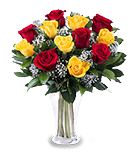
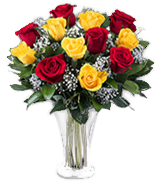
update products images layout

diff --git a/index.html b/index.html
@@ -350,8 +350,8 @@
                 <div id="grid-3" class="grid-wraper-3">
 
                     <div class="card card-2 rounded border">
-                        <div class="card2-img-cont bg-light-c">
-                            <img class="card-img-top" src="images/products/p1.png" height="200" width="50" alt="Card image cap">
+                        <div class="card2-img-cont bg-light-c d-flex">
+                            <img class="mx-auto mt-4" src="images/products/p1.png" alt="Card image cap">
                         </div>
                         <div class="card-body">
                             <button id="product1" class=" far fa-heart .full-heat heart-btn text-red border-0"></button>
@@ -374,8 +374,8 @@
                     </div>
 
                     <div class="card card-2 rounded border">
-                        <div class="card2-img-cont bg-light-c">
-                            <img class="card-img-top" src="images/products/p2.png" height="200" width="50" alt="Card image cap">
+                        <div class="card2-img-cont bg-light-c d-flex">
+                            <img class="mx-auto mt-4" src="images/products/p2.png"  alt="Card image cap">
                         </div>
                         <div class="card-body">
                             <button id="product2" class=" far fa-heart .full-heat heart-btn text-red border-0"></button>
@@ -398,8 +398,8 @@
                     </div>
 
                     <div class="card card-2 rounded border">
-                        <div class="card2-img-cont bg-light-c">
-                            <img class="card-img-top" src="images/products/p3.png" height="200" width="50" alt="Card image cap">
+                        <div class="card2-img-cont bg-light-c d-flex">
+                            <img class="mx-auto mt-4" src="images/products/p3.png"  alt="Card image cap">
                         </div>
                         <div class="card-body">
                             <button id="product3" class=" far fa-heart .full-heat heart-btn text-red border-0"></button>
@@ -423,8 +423,8 @@
 
                     
                     <div class="card card-2 rounded border">
-                        <div class="card2-img-cont bg-light-c">
-                            <img class="card-img-top" src="images/products/p4.png" height="200" width="50" alt="Card image cap">
+                        <div class="card2-img-cont bg-light-c d-flex">
+                            <img class="mx-auto mt-4" src="images/products/p4.png"  alt="Card image cap">
                         </div>
                         <div class="card-body">
                             <button id="product4" class=" far fa-heart .full-heat heart-btn text-red border-0"></button>
@@ -447,8 +447,8 @@
                     </div>
 
                     <div class="card card-2 rounded border">
-                        <div class="card2-img-cont bg-light-c">
-                            <img class="card-img-top" src="images/products/p3.png" height="200" width="50" alt="Card image cap">
+                        <div class="card2-img-cont bg-light-c d-flex">
+                            <img class="mx-auto mt-4" src="images/products/p5.png"  alt="Card image cap">
                         </div>
                         <div class="card-body">
                             <button id="product5" class=" far fa-heart .full-heat heart-btn text-red border-0"></button>
@@ -471,8 +471,8 @@
                     </div>
 
                    <div class="card card-2 rounded border">
-                        <div class="card2-img-cont bg-light-c">
-                            <img class="card-img-top" src="images/products/p4.png" height="200" width="50" alt="Card image cap">
+                        <div class="card2-img-cont bg-light-c d-flex">
+                            <img class="mx-auto mt-4" src="images/products/p6.png"  alt="Card image cap">
                         </div>
                         <div class="card-body">
                             <button id="product6" class=" far fa-heart .full-heat heart-btn text-red border-0"></button>

diff --git a/styles/style.css b/styles/style.css
@@ -195,8 +195,8 @@ iframe {
 
 .card-2 {
   height: 400px;
-  max-width: 370px;
   position: relative;
+  max-width: 320px;
 }
 
 .heart-btn {
